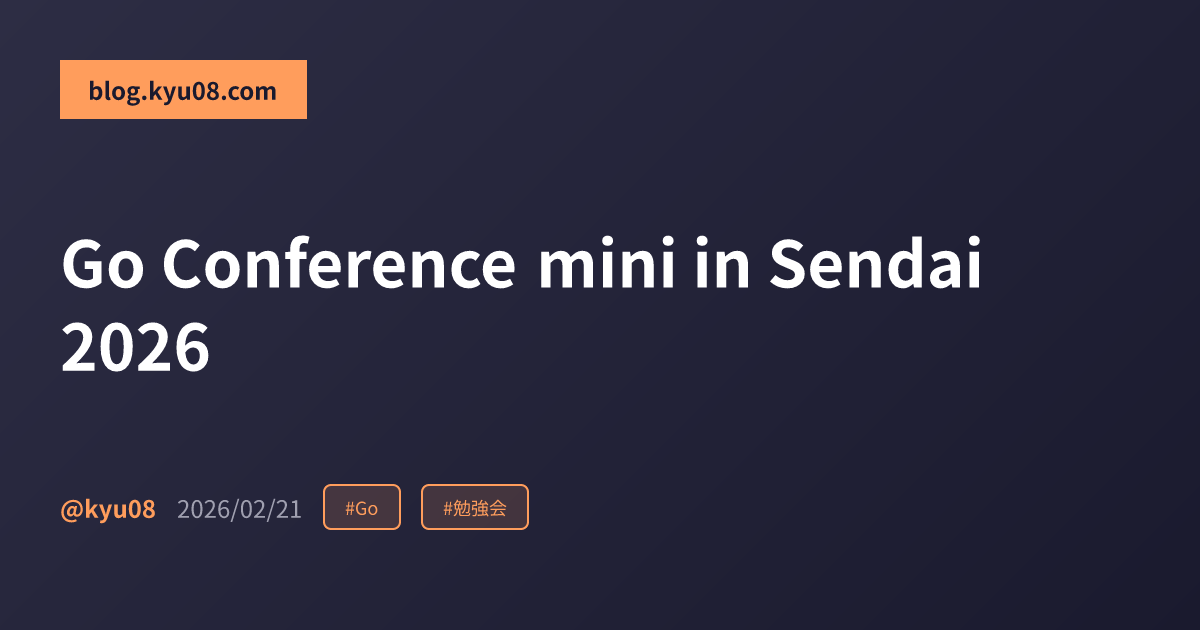
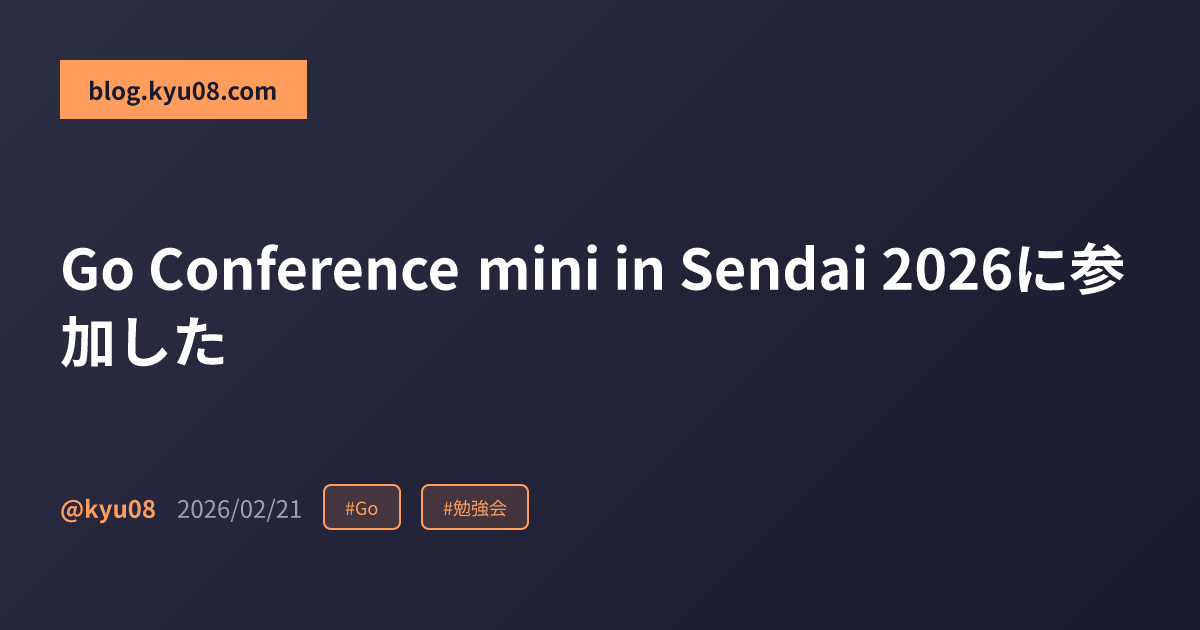
deploy: 4a5b17266e43322d29ba04862a98d735908c6ff3

Changed region(s): [[0.0308, 0.3619, 0.9558, 0.4825], [0.0308, 0.5127, 0.185, 0.6032]]

diff --git a/pr-305/posts/go-con-mini-in-sendai-2026/index.html b/pr-305/posts/go-con-mini-in-sendai-2026/index.html
@@ -2,11 +2,11 @@
 <html lang="ja">
 <head>
   
-    <title>Go Conference mini in Sendai 2026 :: blog.kyu08.com</title>
+    <title>Go Conference mini in Sendai 2026に参加した :: blog.kyu08.com</title>
   
   <meta http-equiv="content-type" content="text/html; charset=utf-8">
 <meta name="viewport" content="width=device-width, initial-scale=1.0">
-<meta name="description" content="【KeyNote】静的解析からみるGoの過去と未来 tenntennさんによるキーノート。 最後に紹介されていたGo1.27のアノテーションで静" />
+<meta name="description" content="2026/02/21(土)に仙台で行われGo Conference mini in Sendai 2026に参加したのでその内容をまとめる。 Go Conference mini in Sendai 20262026年2月21日（土）開" />
 <meta name="keywords" content="" />
 
   <meta name="robots" content="noodp" />
@@ -91,8 +91,8 @@ if (!doNotTrack) {
 
 <meta property="og:locale" content="ja" />
 <meta property="og:type" content="article" />
-<meta property="og:title" content="Go Conference mini in Sendai 2026">
-<meta property="og:description" content="【KeyNote】静的解析からみるGoの過去と未来 tenntennさんによるキーノート。 最後に紹介されていたGo1.27のアノテーションで静" />
+<meta property="og:title" content="Go Conference mini in Sendai 2026に参加した">
+<meta property="og:description" content="2026/02/21(土)に仙台で行われGo Conference mini in Sendai 2026に参加したのでその内容をまとめる。 Go Conference mini in Sendai 20262026年2月21日（土）開" />
 <meta property="og:url" content="https://blog.kyu08.com/pr-305/posts/go-con-mini-in-sendai-2026/" />
 <meta property="og:site_name" content="blog.kyu08.com" />
 
@@ -105,7 +105,7 @@ if (!doNotTrack) {
 
   <meta property="og:image" content="https://blog.kyu08.com/pr-305/posts/go-con-mini-in-sendai-2026/cover.png">
   <meta name="twitter:image" content="https://blog.kyu08.com/pr-305/posts/go-con-mini-in-sendai-2026/cover.png">
-  <meta name="twitter:image:alt" content="Go Conference mini in Sendai 2026">
+  <meta name="twitter:image:alt" content="Go Conference mini in Sendai 2026に参加した">
 
 <meta property="og:image:width" content="1200">
 <meta property="og:image:height" content="630">
@@ -210,11 +210,11 @@ if (!doNotTrack) {
     
 <article class="post">
   <h1 class="post-title">
-    <a href="https://blog.kyu08.com/pr-305/posts/go-con-mini-in-sendai-2026/">Go Conference mini in Sendai 2026</a>
+    <a href="https://blog.kyu08.com/pr-305/posts/go-con-mini-in-sendai-2026/">Go Conference mini in Sendai 2026に参加した</a>
   </h1>
   <div class="post-meta"><time class="post-date">2026/02/21</time>
       
-    <span class="post-reading-time">8 min read (3797 words)</span></div>
+    <span class="post-reading-time">8 min read (3948 words)</span></div>
 
   
     <span class="post-tags">
@@ -228,7 +228,7 @@ if (!doNotTrack) {
   
   <img src="/pr-305/posts/go-con-mini-in-sendai-2026/cover.png"
     class="post-cover"
-    alt="Go Conference mini in Sendai 2026"
+    alt="Go Conference mini in Sendai 2026に参加した"
     title="Cover Image" />
 
 
@@ -252,12 +252,23 @@ if (!doNotTrack) {
     <li><a href="#スポンサーブースで話したこと">スポンサーブースで話したこと</a></li>
     <li><a href="#実装公開goで実現する堅牢なアーキテクチャdddgrpc-connectそしてai協調開発の実践">【実装公開】Goで実現する堅牢なアーキテクチャ：DDD、gRPC-connect、そしてAI協調開発の実践</a></li>
     <li><a href="#上記以外に参加したセッションは以下">上記以外に参加したセッションは以下。</a></li>
+    <li><a href="#感想">感想</a></li>
   </ul>
 </nav>
   
 
   <div class="post-content"><div>
-        <h2 id="keynote静的解析からみるgoの過去と未来">【KeyNote】静的解析からみるGoの過去と未来<a href="#keynote静的解析からみるgoの過去と未来" class="hanchor" ariaLabel="Anchor">#</a> </h2>
+        <p>2026/02/21(土)に仙台で行われGo Conference mini in Sendai 2026に参加したのでその内容をまとめる。</p>
+<p><div class="blogcard" data-url="https://sendaigo.jp/" data-auto-fetch="false">
+  <a href="https://sendaigo.jp/" target="_blank" rel="noopener noreferrer" class="blogcard-link"><div class="blogcard-thumbnail">
+      <img src="https://sendaigo.jp/ogp.png" alt="Go Conference mini in Sendai 2026" loading="lazy">
+    </div><div class="blogcard-content">
+      <div class="blogcard-title">Go Conference mini in Sendai 2026</div><div class="blogcard-description">2026年2月21日（土）開催 - Go Forward Together - 東北から広がるGoコミュニティ</div><div class="blogcard-url">https://sendaigo.jp/</div>
+    </div>
+  </a>
+</div>
+</p>
+<h2 id="keynote静的解析からみるgoの過去と未来">【KeyNote】静的解析からみるGoの過去と未来<a href="#keynote静的解析からみるgoの過去と未来" class="hanchor" ariaLabel="Anchor">#</a> </h2>
 <p>tenntennさんによるキーノート。</p>
 <p><div class="embed-container google-slides">
       <iframe src="https://docs.google.com/presentation/d/14e9PiaKbyqcZTu5mYCKBqa9MokJhxmT0WePHxwPzCmg/embed?start=false&loop=false&delayms=3000" frameborder="0" width="960" height="569" allowfullscreen="true" mozallowfullscreen="true" webkitallowfullscreen="true"></iframe>
@@ -332,7 +343,9 @@ if (!doNotTrack) {
 </ul>
 <h2 id="モジュラモノリスにおける境界をgoのinternalパッケージで守る">モジュラモノリスにおける境界をGoのinternalパッケージで守る<a href="#モジュラモノリスにおける境界をgoのinternalパッケージで守る" class="hanchor" ariaLabel="Anchor">#</a> </h2>
 <p>SODA inc.のmagavelさんによる発表。</p>
-<p><a href="https://speakerdeck.com/magavel/moziyuramonorisuniokerujing-jie-wogonointernalpatukezideshou-ru" target="_blank">https://speakerdeck.com/magavel/moziyuramonorisuniokerujing-jie-wogonointernalpatukezideshou-ru</a></p>
+<p><div class="embed-container speakerdeck">
+        <iframe src="https://speakerdeck.com/player/52cdc21278874c8dafb7a21812d6bd81" allowfullscreen="true" mozallowfullscreen="true" webkitallowfullscreen="true"></iframe>
+      </div></p>
 <ul>
 <li>
 <p>「結合はむしろ、忘れてはならない設計ツールだ。」</p>
@@ -361,14 +374,18 @@ if (!doNotTrack) {
 </li>
 </ul>
 <h2 id="go設計思想の深掘り">Go設計思想の深掘り<a href="#go設計思想の深掘り" class="hanchor" ariaLabel="Anchor">#</a> </h2>
-<p><a href="https://speakerdeck.com/ykf1999/gonoshe-ji-si-xiang-woshen-jue-risuru-unixkaraji-kumono-slidev" target="_blank">https://speakerdeck.com/ykf1999/gonoshe-ji-si-xiang-woshen-jue-risuru-unixkaraji-kumono-slidev</a></p>
+<p><div class="embed-container speakerdeck">
+        <iframe src="https://speakerdeck.com/player/bf88016d5fe349edb4eee19de56f94c2" allowfullscreen="true" mozallowfullscreen="true" webkitallowfullscreen="true"></iframe>
+      </div></p>
 <p>メモ:</p>
 <ul>
 <li>発表者の型がオブジェクト指向言語に慣れていてGoにクラスがないことに驚いてGo誕生の背景を深ぼろうと思った、という自分の疑問に向き合う姿勢がとても素敵だと思った。</li>
 <li><code>設計思想は「どこで使うべきか」を教えてくれる</code>いい言葉だ。</li>
 </ul>
 <h2 id="databasesqldriverを理解してカスタムデータベースドライバーを作る">database/sql/driverを理解してカスタムデータベースドライバーを作る<a href="#databasesqldriverを理解してカスタムデータベースドライバーを作る" class="hanchor" ariaLabel="Anchor">#</a> </h2>
-<p><a href="https://speakerdeck.com/replu/driver-to-create-a-custom-database-driver" target="_blank">https://speakerdeck.com/replu/driver-to-create-a-custom-database-driver</a></p>
+<p><div class="embed-container speakerdeck">
+        <iframe src="https://speakerdeck.com/player/71c311a482f14af59e5808230f22dae3" allowfullscreen="true" mozallowfullscreen="true" webkitallowfullscreen="true"></iframe>
+      </div></p>
 <p>ここから
 ここから
 ここから
@@ -541,10 +558,16 @@ if (!doNotTrack) {
 </ul>
 </li>
 </ul>
+<!-- raw HTML omitted -->
 <h2 id="上記以外に参加したセッションは以下">上記以外に参加したセッションは以下。<a href="#上記以外に参加したセッションは以下" class="hanchor" ariaLabel="Anchor">#</a> </h2>
 <ul>
 <li>Goだから出来るProduction ready ジャッジシステム</li>
 <li>はじめての Go 〜 きっかけは TinyGo だった</li>
+</ul>
+<h2 id="感想">感想<a href="#感想" class="hanchor" ariaLabel="Anchor">#</a> </h2>
+<ul>
+<li>ソロだったけどセッションの合間や懇親感でたくさんの人と交流できてとても楽しかった。</li>
+<li></li>
 </ul>
 <div class="footnotes" role="doc-endnotes">
 <hr>
@@ -615,6 +638,7 @@ if (!doNotTrack) {
     <li><a href="#スポンサーブースで話したこと">スポンサーブースで話したこと</a></li>
     <li><a href="#実装公開goで実現する堅牢なアーキテクチャdddgrpc-connectそしてai協調開発の実践">【実装公開】Goで実現する堅牢なアーキテクチャ：DDD、gRPC-connect、そしてAI協調開発の実践</a></li>
     <li><a href="#上記以外に参加したセッションは以下">上記以外に参加したセッションは以下。</a></li>
+    <li><a href="#感想">感想</a></li>
   </ul>
 </nav>
     </div>

diff --git a/pr-305/posts/index.html b/pr-305/posts/index.html
@@ -210,7 +210,7 @@ if (!doNotTrack) {
     
       <article class="post on-list">
         <h2 class="post-title">
-          <a href="https://blog.kyu08.com/pr-305/posts/go-con-mini-in-sendai-2026/">Go Conference mini in Sendai 2026</a>
+          <a href="https://blog.kyu08.com/pr-305/posts/go-con-mini-in-sendai-2026/">Go Conference mini in Sendai 2026に参加した</a>
         </h2>
         <div class="post-meta"><time class="post-date">2026/02/21</time><span class="post-author">kyu08</span></div>
 
@@ -227,13 +227,13 @@ if (!doNotTrack) {
         
   <img src="/pr-305/posts/go-con-mini-in-sendai-2026/cover.png"
     class="post-cover"
-    alt="Go Conference mini in Sendai 2026"
+    alt="Go Conference mini in Sendai 2026に参加した"
     title="Cover Image" />
 
 
         <div class="post-content">
           
-            【KeyNote】静的解析からみるGoの過去と未来 tenntennさんによるキーノート。 最後に紹介されていたGo1.27のアノテーションで静
+            2026/02/21(土)に仙台で行われGo Conference mini in Sendai 2026に参加したのでその内容をまとめる。 Go Conference mini in Sendai 20262026年2月21日（土）開
           
         </div>
 

diff --git a/pr-305/tags/go/index.html b/pr-305/tags/go/index.html
@@ -211,7 +211,7 @@ if (!doNotTrack) {
     
       <article class="post on-list">
         <h1 class="post-title">
-          <a href="https://blog.kyu08.com/pr-305/posts/go-con-mini-in-sendai-2026/">Go Conference mini in Sendai 2026</a>
+          <a href="https://blog.kyu08.com/pr-305/posts/go-con-mini-in-sendai-2026/">Go Conference mini in Sendai 2026に参加した</a>
         </h1>
         <div class="post-meta"><time class="post-date">2026/02/21</time><span class="post-author">kyu08</span></div>
 
@@ -228,13 +228,13 @@ if (!doNotTrack) {
         
   <img src="/pr-305/posts/go-con-mini-in-sendai-2026/cover.png"
     class="post-cover"
-    alt="Go Conference mini in Sendai 2026"
+    alt="Go Conference mini in Sendai 2026に参加した"
     title="Cover Image" />
 
 
         <div class="post-content">
           
-            【KeyNote】静的解析からみるGoの過去と未来 tenntennさんによるキーノート。 最後に紹介されていたGo1.27のアノテーションで静
+            2026/02/21(土)に仙台で行われGo Conference mini in Sendai 2026に参加したのでその内容をまとめる。 Go Conference mini in Sendai 20262026年2月21日（土）開
           
         </div>
 

diff --git a/pr-305/tags/勉強会/index.html b/pr-305/tags/勉強会/index.html
@@ -211,7 +211,7 @@ if (!doNotTrack) {
     
       <article class="post on-list">
         <h1 class="post-title">
-          <a href="https://blog.kyu08.com/pr-305/posts/go-con-mini-in-sendai-2026/">Go Conference mini in Sendai 2026</a>
+          <a href="https://blog.kyu08.com/pr-305/posts/go-con-mini-in-sendai-2026/">Go Conference mini in Sendai 2026に参加した</a>
         </h1>
         <div class="post-meta"><time class="post-date">2026/02/21</time><span class="post-author">kyu08</span></div>
 
@@ -228,13 +228,13 @@ if (!doNotTrack) {
         
   <img src="/pr-305/posts/go-con-mini-in-sendai-2026/cover.png"
     class="post-cover"
-    alt="Go Conference mini in Sendai 2026"
+    alt="Go Conference mini in Sendai 2026に参加した"
     title="Cover Image" />
 
 
         <div class="post-content">
           
-            【KeyNote】静的解析からみるGoの過去と未来 tenntennさんによるキーノート。 最後に紹介されていたGo1.27のアノテーションで静
+            2026/02/21(土)に仙台で行われGo Conference mini in Sendai 2026に参加したのでその内容をまとめる。 Go Conference mini in Sendai 20262026年2月21日（土）開
           
         </div>
 

diff --git a/pr-305/index.html b/pr-305/index.html
@@ -222,7 +222,7 @@ if (!doNotTrack) {
         <h2 class="year-header">2026</h2>
         <article class="post on-list"><time class="post-date">2026/02/21</time>
             <br/>
-              <a href="https://blog.kyu08.com/pr-305/posts/go-con-mini-in-sendai-2026/">Go Conference mini in Sendai 2026</a>
+              <a href="https://blog.kyu08.com/pr-305/posts/go-con-mini-in-sendai-2026/">Go Conference mini in Sendai 2026に参加した</a>
             
 
             
@@ -244,13 +244,13 @@ if (!doNotTrack) {
             
   <img src="/pr-305/posts/go-con-mini-in-sendai-2026/cover.png"
     class="post-cover"
-    alt="Go Conference mini in Sendai 2026"
+    alt="Go Conference mini in Sendai 2026に参加した"
     title="Cover Image" />
 
 
             <div class="post-content">
               
-                【KeyNote】静的解析からみるGoの過去と未来 tenntennさんによるキーノート。 最後に紹介されていたGo1.27のアノテーションで静
+                2026/02/21(土)に仙台で行われGo Conference mini in Sendai 2026に参加したのでその内容をまとめる。 Go Conference mini in Sendai 20262026年2月21日（土）開
               
             </div>
 

diff --git a/pr-305/posts/development-environment-2026/index.html b/pr-305/posts/development-environment-2026/index.html
@@ -656,7 +656,7 @@ if (!doNotTrack) {
   <div class="pagination__buttons">
     
       <a href="https://blog.kyu08.com/pr-305/posts/go-con-mini-in-sendai-2026/" class="button inline prev">
-        Go Conference mini in Sendai 2026
+        Go Conference mini in Sendai 2026に参加した
       </a>
     
     
